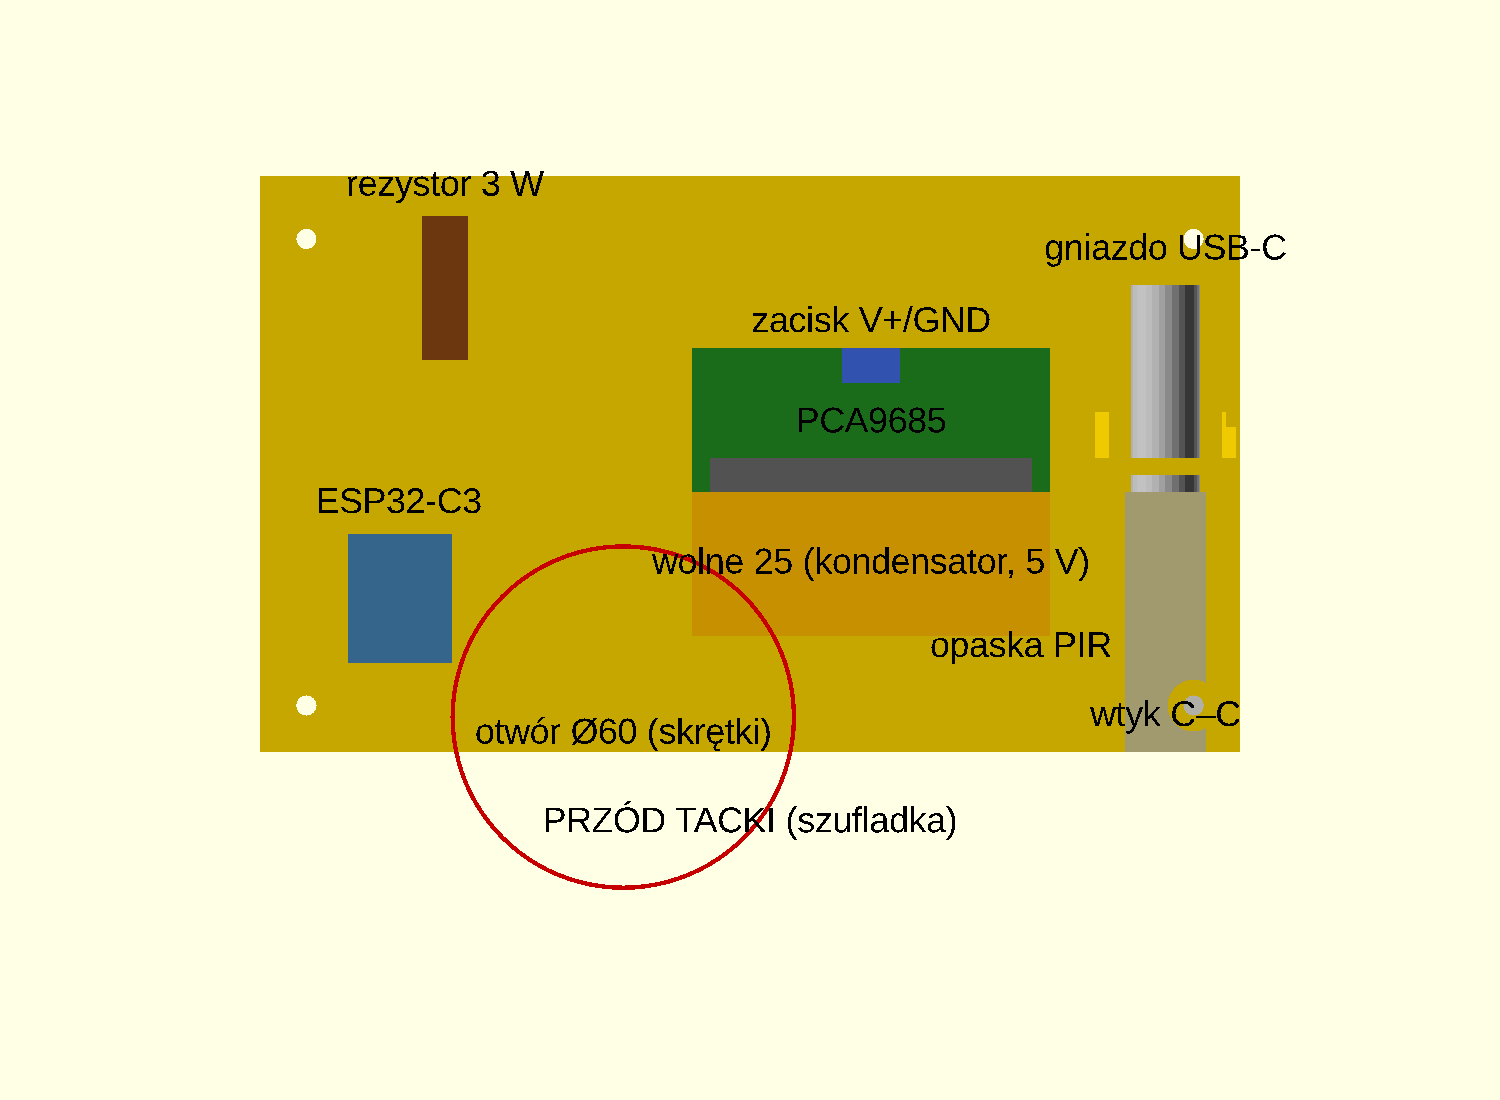
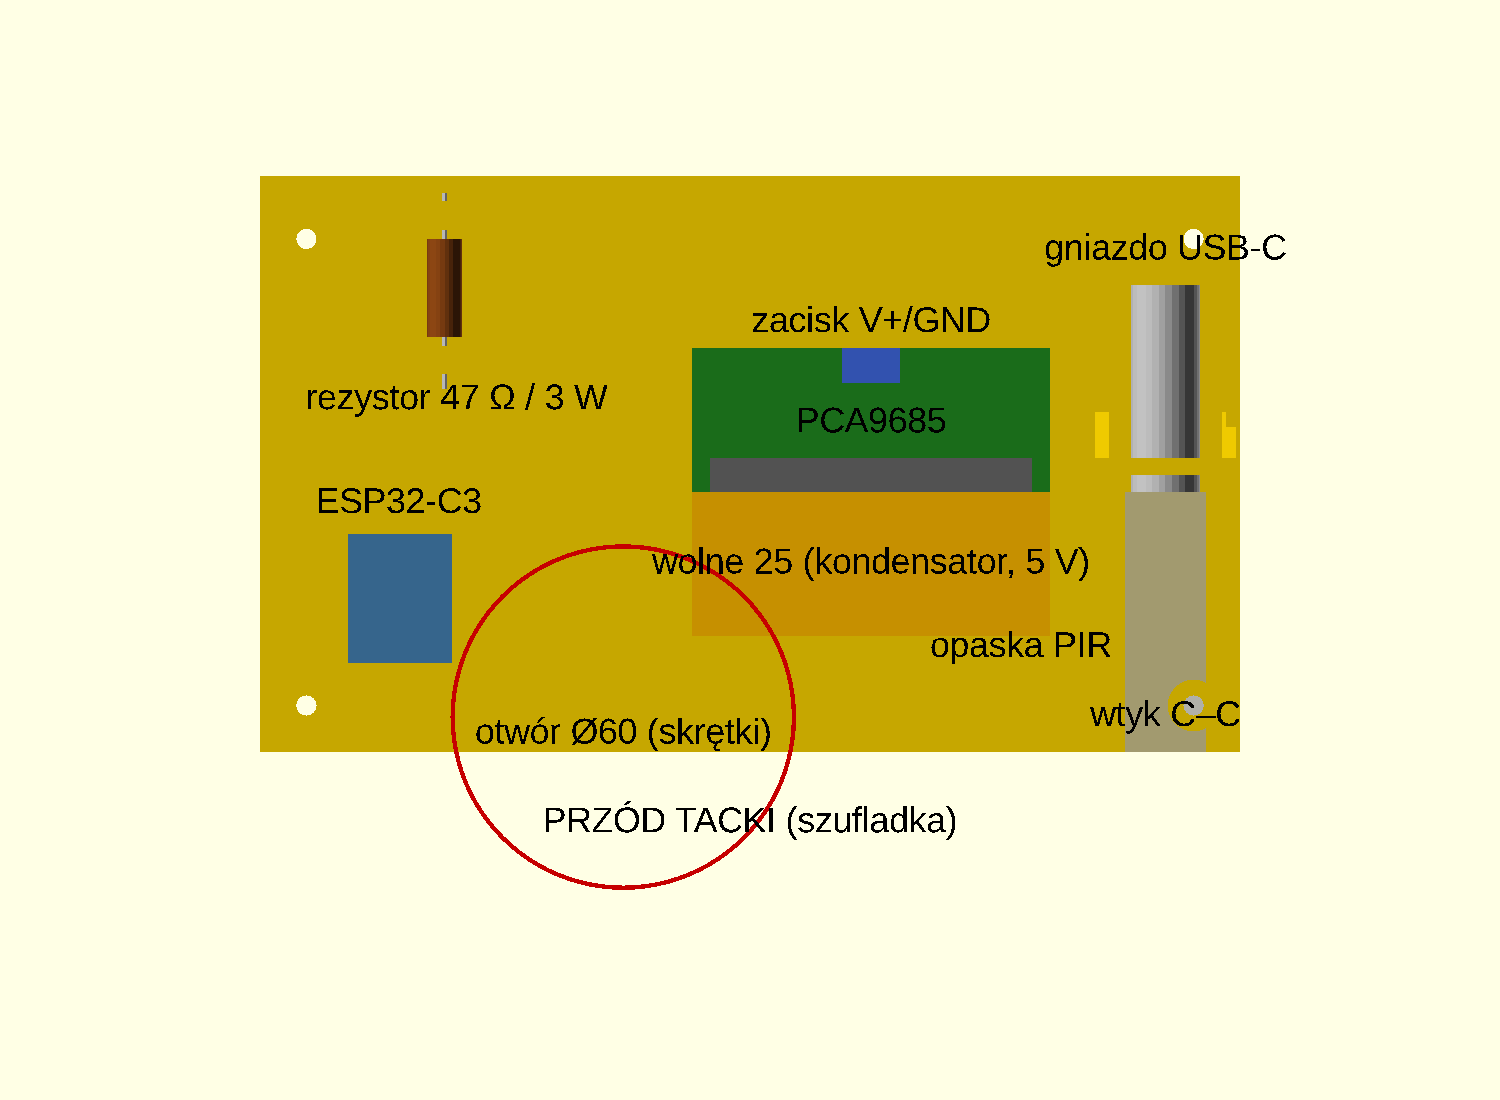
Tacka elektroniki: rezystor 47 Ω / 3 W na 2 słupkach z otworami na nóżki (korpus 8 nad dnem, nie dotyka PLA)
Doprecyzowanie elektroniki 26.10. Siatka OK, kolizje: pusto.

Changed region(s): [[0.2147, 0.1545, 0.3987, 0.3709]]

diff --git a/20-analizy/2026-10-25-podstawka-model.md b/20-analizy/2026-10-25-podstawka-model.md
@@ -327,3 +327,4 @@ Kontrole: siatka tacki 0 błędów, 1 bryła, 170 × 100 × 25; kolizje szufladk
 - uchwyty opasek: 3 na skrętki pod otworem w płycie (y 12; x 55 / 75 / 95), 1 na przewód PIR przy wejściu z szufladki (x 142, y 10), poza strefą wtyku C–C (x 150–164);
 - nad PCA9685 do płyty ok. 31 mm (wtyki Dupont i gięcie ok. 25).
 Kontrole: siatka OK, kolizje szufladki z tacką: pusto. Wymiary płytek i gniazda nadal do pomiaru.
+- **Rezystor (doprecyzowanie elektroniki 26.10):** 47 Ω / 3 W, korpus Ø6 × 17, nóżki osiowe, nagrzewa się do 55–60 °C, więc nie może dotykać PLA. Uchwyty z opaskami zastąpiłem 2 słupkami 5 × 5 × 13,5 w rozstawie 25 (x 32, y 68 i 93). W każdym słupku jest poziomy otwór Ø1,4 (łza) na nóżkę, oś 11 nad dnem: korpus 8 nad dnem, 1,5 od słupków, 8 od tylnego pasa, 26 od PCA9685. Końce nóżek wychodzą na zewnątrz słupków pod przewody do zacisku V+/GND. Siatka i kolizje: OK.
